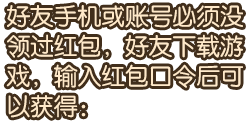
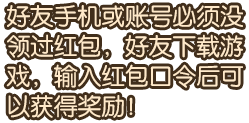
上海麻将

Changed region(s): [[0.2811, 0.7317, 0.5622, 1.0]]

diff --git a/Mahjong/Classes/game/mahjong/share/Redwallet.cpp b/Mahjong/Classes/game/mahjong/share/Redwallet.cpp
@@ -153,43 +153,43 @@ void Redwallet::drawDialog(){
     addChild(title2);
     
     auto text2 = Sprite::create("shop/hit_info_1.png");
-    text2->setPosition(640,465);
+    text2->setPosition(640,425);
     addChild(text2);
     
-    LabelAtlas* goldNum2 = LabelAtlas::create(cocos2d::String::createWithFormat("%s",GAMEDATA::getInstance()->getRedWalletRespData().gold2.c_str())->_string,"shop/prop_num.png",21,28,'0');
-    goldNum2->setPosition(580,375);
-    goldNum2->setScale(0.9f);
-    goldNum2->setAnchorPoint(Point::ANCHOR_MIDDLE_LEFT);
-    addChild(goldNum2);
+//    LabelAtlas* goldNum2 = LabelAtlas::create(cocos2d::String::createWithFormat("%s",GAMEDATA::getInstance()->getRedWalletRespData().gold2.c_str())->_string,"shop/prop_num.png",21,28,'0');
+//    goldNum2->setPosition(580,375);
+//    goldNum2->setScale(0.9f);
+//    goldNum2->setAnchorPoint(Point::ANCHOR_MIDDLE_LEFT);
+//    addChild(goldNum2);
+//    
+//    auto goldText2 = Sprite::create("shop/gold_text.png");
+//    goldText2->setPosition(690,375);
+//    addChild(goldText2);
+//    
+//    
+//    LabelAtlas* lequanNum2 = LabelAtlas::create(cocos2d::String::createWithFormat("%s",GAMEDATA::getInstance()->getRedWalletRespData().lequan2.c_str())->_string,"shop/prop_num.png",21,28,'0');
+//    lequanNum2->setPosition(580,335);
+//    lequanNum2->setAnchorPoint(Point::ANCHOR_MIDDLE_LEFT);
+//    lequanNum2->setScale(0.9f);
+//    addChild(lequanNum2);
+//    
+//    auto lequanText2 = Sprite::create("shop/lequan_text.png");
+//    lequanText2->setPosition(690,335);
+//    addChild(lequanText2);
+//    
+//    
+//    LabelAtlas* diamondNum2 = LabelAtlas::create(cocos2d::String::createWithFormat("%s",GAMEDATA::getInstance()->getRedWalletRespData().diamond2.c_str())->_string,"shop/prop_num.png",21,28,'0');
+//    diamondNum2->setPosition(580,295);
+//    diamondNum2->setAnchorPoint(Point::ANCHOR_MIDDLE_LEFT);
+//    diamondNum2->setScale(0.9f);
+//    addChild(diamondNum2);
+//    
+//    auto diamondText2 = Sprite::create("shop/bangzhuan_text.png");
+//    diamondText2->setPosition(690,295);
+//    addChild(diamondText2);
     
-    auto goldText2 = Sprite::create("shop/gold_text.png");
-    goldText2->setPosition(690,375);
-    addChild(goldText2);
-    
-    
-    LabelAtlas* lequanNum2 = LabelAtlas::create(cocos2d::String::createWithFormat("%s",GAMEDATA::getInstance()->getRedWalletRespData().lequan2.c_str())->_string,"shop/prop_num.png",21,28,'0');
-    lequanNum2->setPosition(580,335);
-    lequanNum2->setAnchorPoint(Point::ANCHOR_MIDDLE_LEFT);
-    lequanNum2->setScale(0.9f);
-    addChild(lequanNum2);
-    
-    auto lequanText2 = Sprite::create("shop/lequan_text.png");
-    lequanText2->setPosition(690,335);
-    addChild(lequanText2);
-    
-    
-    LabelAtlas* diamondNum2 = LabelAtlas::create(cocos2d::String::createWithFormat("%s",GAMEDATA::getInstance()->getRedWalletRespData().diamond2.c_str())->_string,"shop/prop_num.png",21,28,'0');
-    diamondNum2->setPosition(580,295);
-    diamondNum2->setAnchorPoint(Point::ANCHOR_MIDDLE_LEFT);
-    diamondNum2->setScale(0.9f);
-    addChild(diamondNum2);
-    
-    auto diamondText2 = Sprite::create("shop/bangzhuan_text.png");
-    diamondText2->setPosition(690,295);
-    addChild(diamondText2);
-    
-    auto extra_text = Sprite::create("shop/fahongbaokedejaingli.png");
-    extra_text->setPosition(640,235);
+    auto extra_text = Sprite::create("shop/every_one_text.png");
+    extra_text->setPosition(640,295);
     addChild(extra_text);
     
     auto btnImage2 = MenuItemImage::create("shop/free_red_wallet_1.png","shop/free_red_wallet_2.png",CC_CALLBACK_0(Redwallet::giveRedwallet,this));
@@ -224,7 +224,7 @@ void Redwallet::drawDialog(){
 //    text3->setPosition(930,250);
 //    addChild(text3);
     
-    auto btnImage3 = MenuItemImage::create("shop/linqujiangquan_1.png","shop/linqujiangquan_2.png");
+    auto btnImage3 = MenuItemImage::create("shop/linqujiangquan_1.png","shop/linqujiangquan_2.png",CC_CALLBACK_0(Redwallet::getPushPride, this));
     Menu* mymenu3 = Menu::create(btnImage3,NULL);
     mymenu3->setPosition(930,170);
     addChild(mymenu3);
@@ -256,7 +256,7 @@ TableViewCell* Redwallet::tableCellAtIndex(TableView *table, ssize_t idx)
         cell->addChild(head);
         
         auto label = Label::createWithSystemFont(GAMEDATA::getInstance()->getRedWalletRespData().friends.at(idx).nickname, "arial", 24);
-        label->setColor(Color3B::WHITE);
+        label->setColor(Color3B(255,233,201));
         label->setAnchorPoint(Vec2::ZERO);
         label->setPosition(Vec2(125, 65));
         cell->addChild(label);
